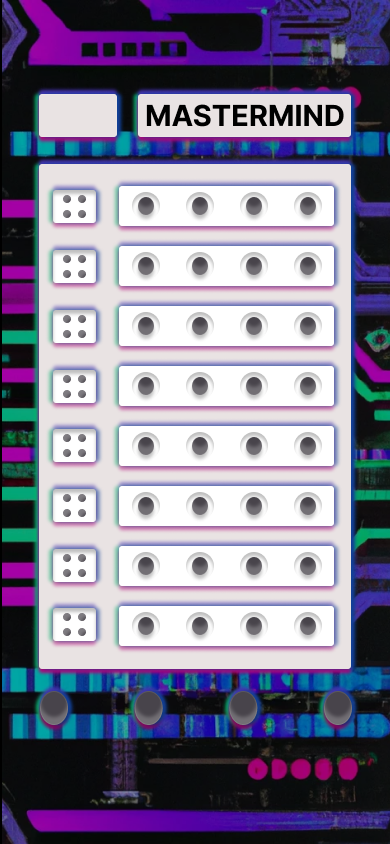
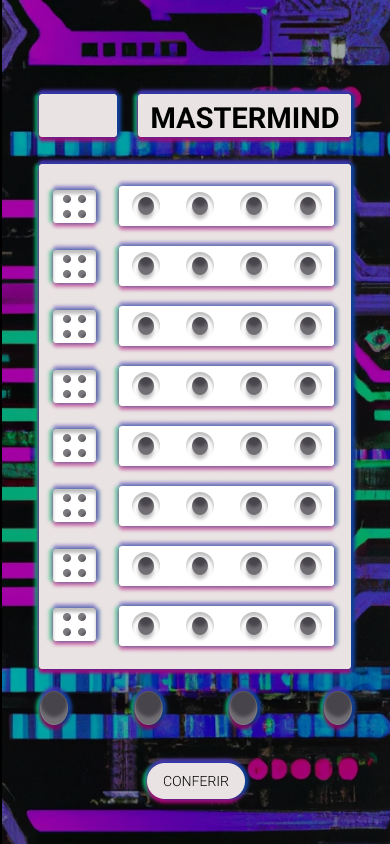
vetor com as cores escolhidas pelo usuário adicionado

Changed region(s): [[0.3692, 0.8934, 0.6462, 0.955], [0.3692, 0.1232, 0.8923, 0.154]]

diff --git a/script.js b/script.js
@@ -10,6 +10,9 @@ const ctx = canvas.getContext("2d");
 const image = new Image();
 image.src = "../jogoDaSenha/image/design.png";
 
+// button para verificar
+const btn = document.getElementById("btnConferir");
+
 // Define as cores disponíveis e o número de cores
 const cores_disponiveis = [
   "#ff0000",
@@ -45,6 +48,14 @@ image.onload = function () {
     ctx.closePath();
   });
 
+  // Inicio o vetor com as cores padrões
+  const cores_escolhidas_usuario = [
+    posicao_bolinhas_grandes[0].color,
+    posicao_bolinhas_grandes[1].color,
+    posicao_bolinhas_grandes[2].color,
+    posicao_bolinhas_grandes[3].color,
+  ];
+
   // Adiciona um evento de clique para cada bolinha grande
   canvas.addEventListener("click", function (event) {
     // Encontra a bolinha clicada
@@ -61,7 +72,10 @@ image.onload = function () {
       // Atualiza a cor da bolinha grande clicada com a nova cor selecionada pelo usuário
       clickedCircle.colorIndex = (clickedCircle.colorIndex + 1) % num_cores;
       clickedCircle.color = cores_disponiveis[clickedCircle.colorIndex];
+      cores_escolhidas_usuario[circleIndex(clickedCircle)] =
+        clickedCircle.color;
 
+      console.log(cores_escolhidas_usuario);
       // Redesenha todas as bolinhas grandes
       posicao_bolinhas_grandes.forEach((circle) => {
         ctx.beginPath();
@@ -72,6 +86,31 @@ image.onload = function () {
       });
     }
   });
+
+  // Função que retorna o índice da bolinha no vetor
+  function circleIndex(circle) {
+    if (
+      circle.x === posicao_bolinhas_grandes[0].x &&
+      circle.y === posicao_bolinhas_grandes[0].y
+    ) {
+      return 0;
+    } else if (
+      circle.x === posicao_bolinhas_grandes[1].x &&
+      circle.y === posicao_bolinhas_grandes[1].y
+    ) {
+      return 1;
+    } else if (
+      circle.x === posicao_bolinhas_grandes[2].x &&
+      circle.y === posicao_bolinhas_grandes[2].y
+    ) {
+      return 2;
+    } else if (
+      circle.x === posicao_bolinhas_grandes[3].x &&
+      circle.y === posicao_bolinhas_grandes[3].y
+    ) {
+      return 3;
+    }
+  }
 };
 
 var posicao_bolinhas_medias = [

diff --git a/index.html b/index.html
@@ -1,14 +1,17 @@
 <!DOCTYPE html>
 <html lang="en">
-<head>
-  <meta charset="UTF-8">
-  <meta http-equiv="X-UA-Compatible" content="IE=edge">
-  <meta name="viewport" content="width=device-width, initial-scale=1.0">
-  <link rel="stylesheet" href="style.css">
-  <title>Jogo da senha</title>
-</head>
-<body>
-  <canvas class="myCanvas" id="myCanvas"></canvas>
-  <script src="script.js"></script>
-</body>
+  <head>
+    <meta charset="UTF-8" />
+    <meta http-equiv="X-UA-Compatible" content="IE=edge" />
+    <meta name="viewport" content="width=device-width, initial-scale=1.0" />
+    <link rel="stylesheet" href="style.css" />
+    <title>Jogo da senha</title>
+  </head>
+  <body>
+    <div id="container">
+      <button id="btnConferir">Conferir</button>
+      <canvas class="myCanvas" id="myCanvas"></canvas>
+    </div>
+    <script src="script.js"></script>
+  </body>
 </html>

diff --git a/style.css b/style.css
@@ -22,3 +22,23 @@ html {
     padding: 5px;
   }
 }
+
+#container {
+  position: relative;
+}
+
+#btnConferir {
+  /* Posicionará o botão em relação ao canvas */
+  position: absolute;
+  /* Estabelecendo um tamanho ao botão para ficar de acordo com o design */
+  width: 96px;
+  height: 36px;
+  border-radius: 30px;
+  /* Torna o botão invisível */
+  opacity: 0;
+  /* Permite que o botão receba eventos de clique*/
+  pointer-events: auto;
+  /* Posiciono o botão na localização correta em relação ao design */
+  bottom: 80px;
+  right: 158px;
+}
